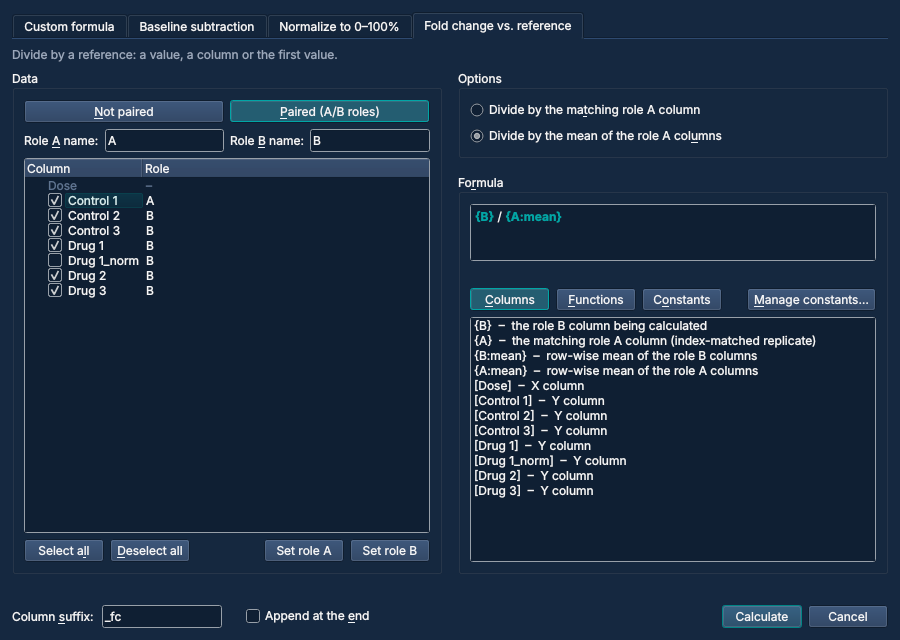
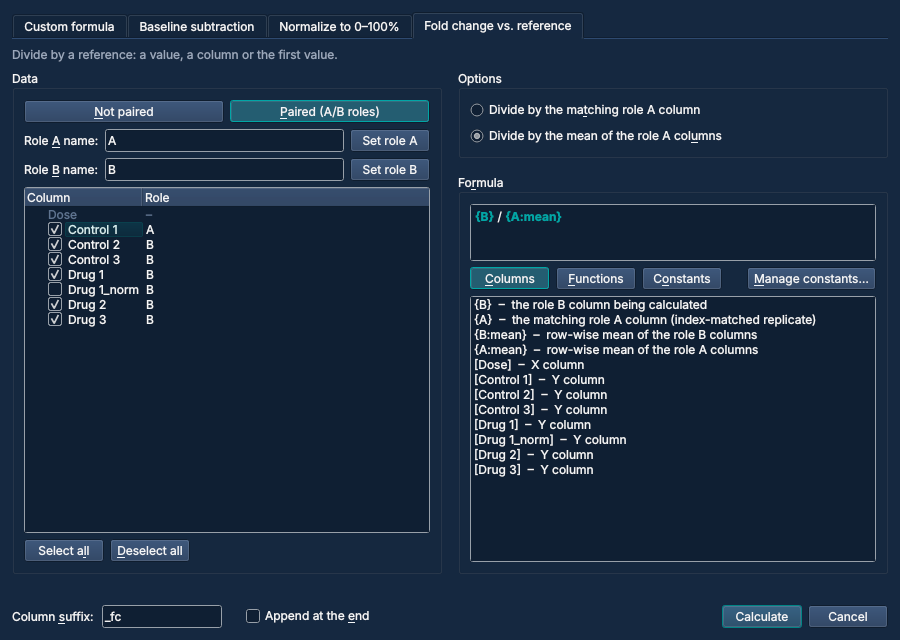
Fit the Calculate dialog in its minimum size on every platform
The paired Calculate dialog needed 825 px with the Ubuntu runner's font,
more than its 820 x 540 minimum, and on macOS the baseline page was 8 px
too tall.

- Data: Set role A / Set role B sit next to their role's name instead of
  in one row with Select all / Deselect all (338 -> ~240 px at 9 pt).
- Formula: the error line is hidden while there is no error, which saves
  a line of height.
- FittedStack reports the size hints of the page shown instead of
  switching pages' size policies. It kept a copy of each page's policy
  from when the page was added, so a label that got its text later lost
  its height-for-width and a wrapped option text (long role names in a
  custom formula) was cut off. A wrapped page now gets its height at the
  stack's width.
- CI: the Windows tests use the native platform. On Windows, offscreen
  finds no fonts and draws every character as a 12 px box, which made
  Calculate need 1244 px and failed Bulk rename too.

Updates the step 1.6 screenshots of Calculate.

Claude-Session: https://claude.ai/code/session_01CFpmBUDZsnLRovBkShW1dJ

diff --git a/src/curvis/ui/calculate_dialog.py b/src/curvis/ui/calculate_dialog.py
@@ -395,12 +395,12 @@ class CalculateDialog(QDialog):
                 self.not_paired,
                 self.paired,
                 self.a_name,
+                self.role_a_button,
                 self.b_name,
+                self.role_b_button,
                 self.tree,
                 self.select_all_button,
                 self.deselect_all_button,
-                self.role_a_button,
-                self.role_b_button,
                 self.options,
                 self.formula_edit,
                 *self.palette_buttons.values(),
@@ -429,15 +429,25 @@ class CalculateDialog(QDialog):
         self.not_paired.setChecked(True)
         layout.addLayout(pairing_row)
 
-        names = QHBoxLayout()
+        # Each role's name, and the button that gives the selected columns that role.
+        names = QGridLayout()
         self.a_name = QLineEdit(DEFAULT_ROLE_A)
         self.b_name = QLineEdit(DEFAULT_ROLE_B)
         self.a_label = QLabel("Role &A name:")
         self.a_label.setBuddy(self.a_name)
         self.b_label = QLabel("Role &B name:")
         self.b_label.setBuddy(self.b_name)
-        for widget in (self.a_label, self.a_name, self.b_label, self.b_name):
-            names.addWidget(widget)
+        self.role_a_button = QPushButton("Set role A")
+        self.role_b_button = QPushButton("Set role B")
+        for row, widgets in enumerate(
+            (
+                (self.a_label, self.a_name, self.role_a_button),
+                (self.b_label, self.b_name, self.role_b_button),
+            )
+        ):
+            for column, widget in enumerate(widgets):
+                names.addWidget(widget, row, column)
+        names.setColumnStretch(1, 1)
         layout.addLayout(names)
 
         self.tree = QTreeWidget()
@@ -453,8 +463,6 @@ class CalculateDialog(QDialog):
         buttons = QHBoxLayout()
         select_all = self.select_all_button = QPushButton("Select a&ll")
         deselect_all = self.deselect_all_button = QPushButton("&Deselect all")
-        self.role_a_button = QPushButton("Set role A")
-        self.role_b_button = QPushButton("Set role B")
         select_all.clicked.connect(lambda: self._check_all(True))
         deselect_all.clicked.connect(lambda: self._check_all(False))
         self.role_a_button.clicked.connect(lambda: self.set_role_of_selected(ROLE_A))
@@ -462,8 +470,6 @@ class CalculateDialog(QDialog):
         for button in (select_all, deselect_all):
             buttons.addWidget(button)
         buttons.addStretch(1)
-        buttons.addWidget(self.role_a_button)
-        buttons.addWidget(self.role_b_button)
         layout.addLayout(buttons)
 
         self.pairing_group.buttonToggled.connect(lambda *_: self._on_pairing_changed())
@@ -547,6 +553,7 @@ class CalculateDialog(QDialog):
         self.highlighter = FormulaHighlighter(self.formula_edit.document(), self.formula_edit)
         layout.addWidget(self.formula_edit)
         self.formula_error = error_label()
+        self.formula_error.hide()  # shown only while there is an error, to save its line
         layout.addWidget(self.formula_error)
 
         tabs = QHBoxLayout()
@@ -895,6 +902,7 @@ class CalculateDialog(QDialog):
             with QSignalBlocker(self.formula_edit):
                 self.highlighter.rehighlight()
         self.formula_error.setText(error.reason + "." if error and text.strip() else "")
+        self.formula_error.setVisible(bool(self.formula_error.text()))
         problem = self.problem()
         under_formula = error is not None and problem == error.reason and bool(text.strip())
         self.skeleton.set_problem(problem, shown_in=self.formula_error if under_formula else None)

diff --git a/src/curvis/ui/dialogs.py b/src/curvis/ui/dialogs.py
@@ -19,7 +19,7 @@ from itertools import pairwise
 
 import shiboken6
 from PySide6.QtCore import QAbstractItemModel, QEvent, QObject, QSize, Qt, Signal
-from PySide6.QtGui import QKeySequence, QPalette, QShortcut
+from PySide6.QtGui import QKeySequence, QPalette, QResizeEvent, QShortcut
 from PySide6.QtWidgets import (
     QAbstractItemView,
     QBoxLayout,
@@ -319,31 +319,46 @@ class CollapsibleSection(QWidget):
 class FittedStack(QStackedWidget):
     """A stacked widget that takes the size of the page shown, not of its tallest page.
 
-    Hidden pages get the Ignored size policy, which the stacked layout leaves out when it
-    works out its size; the page shown gets its own policy back.
+    Its size hints are those of the page shown. A page whose height depends on its width
+    (a word-wrapped label) gets the height it needs at the stack's width. The pages keep
+    their own size policies.
     """
 
     def __init__(self, parent: QWidget | None = None) -> None:
         super().__init__(parent)
-        self._policies: dict[int, QSizePolicy] = {}
         self.setSizePolicy(QSizePolicy.Policy.Preferred, QSizePolicy.Policy.Maximum)
-        self.currentChanged.connect(lambda _index: self.fit())
+        self.currentChanged.connect(lambda _index: self.updateGeometry())
 
-    def addWidget(self, widget: QWidget) -> int:  # noqa: N802 (Qt API)
-        self._policies[id(widget)] = widget.sizePolicy()
-        index = super().addWidget(widget)
-        self.fit()
-        return index
+    def _fit(self, size: QSize) -> QSize:
+        page = self.currentWidget()
+        margins = self.contentsMargins()
+        if page is not None and page.hasHeightForWidth() and self.width() > 0:
+            inner = self.width() - margins.left() - margins.right()
+            size.setHeight(max(size.height(), page.heightForWidth(inner)))
+        return size.grownBy(margins)
 
-    def fit(self) -> None:
-        ignored = QSizePolicy(QSizePolicy.Policy.Ignored, QSizePolicy.Policy.Ignored)
-        for i in range(self.count()):
-            page = self.widget(i)
-            if page is None:
-                continue
-            own = self._policies.get(id(page), page.sizePolicy())
-            page.setSizePolicy(own if i == self.currentIndex() else ignored)
-        self.updateGeometry()
+    def sizeHint(self) -> QSize:  # noqa: N802 (Qt API)
+        page = self.currentWidget()
+        if page is None:
+            return super().sizeHint()
+        return self._fit(page.sizeHint().expandedTo(page.minimumSize()))
+
+    def minimumSizeHint(self) -> QSize:  # noqa: N802 (Qt API)
+        page = self.currentWidget()
+        if page is None:
+            return super().minimumSizeHint()
+        return self._fit(page.minimumSizeHint().expandedTo(page.minimumSize()))
+
+    def event(self, event: QEvent) -> bool:
+        if event.type() == QEvent.Type.LayoutRequest:
+            self.updateGeometry()  # the page shown changed size: so does the stack
+        return super().event(event)
+
+    def resizeEvent(self, event: QResizeEvent) -> None:  # noqa: N802 (Qt API)
+        super().resizeEvent(event)
+        page = self.currentWidget()
+        if event.oldSize().width() != event.size().width() and page and page.hasHeightForWidth():
+            self.updateGeometry()  # a wrapped page needs another height at this width
 
 
 class EmptyState(QObject):

diff --git a/tests/ui/test_dialog_design.py b/tests/ui/test_dialog_design.py
@@ -31,13 +31,21 @@ from PySide6.QtWidgets import (
     QPlainTextEdit,
     QPushButton,
     QTabBar,
+    QVBoxLayout,
     QWidget,
 )
 from pytestqt.qtbot import QtBot
 
 from curvis.compute import Scheduler
+from curvis.core import CalculationKind
 from curvis.settings import Settings
-from curvis.ui.dialogs import WORKBENCH_MINIMUM, WORKBENCH_SIZE, DialogSkeleton
+from curvis.ui.dialogs import (
+    WORKBENCH_MINIMUM,
+    WORKBENCH_SIZE,
+    DialogSkeleton,
+    FittedStack,
+    secondary_label,
+)
 from curvis.ui.theme import dark_palette, light_palette
 from tests.ui.dialog_samples import SAMPLES, Context, settle
 
@@ -305,3 +313,52 @@ def test_the_checks_find_overlaps_cut_offs_and_clashes(qtbot: QtBot) -> None:
     assert any("cut off" in p for p in problems)
     letters = [mnemonic(text) for text, _ in mnemonic_texts(dialog)]  # type: ignore[arg-type]
     assert letters.count("s") == 2
+
+
+@pytest.mark.parametrize("size", ["default", "minimum"])
+def test_calculate_fits_a_wrapped_option_text(
+    size: str, qtbot: QtBot, context: Context, qapp: QApplication
+) -> None:
+    """Long role names make the custom formula's text wrap; the dialog makes room for it."""
+    dialog = open_sample("calculate_paired", qtbot, context, qapp)
+    dialog.set_kind(CalculationKind.CUSTOM)  # type: ignore[attr-defined]
+    dialog.a_name.setText("Vehicle control, day one")  # type: ignore[attr-defined]
+    dialog.b_name.setText("Treated with the drug, day one")  # type: ignore[attr-defined]
+    settle(dialog, context, qapp)
+    if size == "minimum":
+        resize(dialog, dialog.minimumSize().expandedTo(dialog.minimumSizeHint()), qapp)
+    problems = problems_with_fit(dialog)
+    assert not problems, "\n".join(problems)
+
+
+def test_a_fitted_stack_is_as_tall_as_the_page_shown(qtbot: QtBot) -> None:
+    stack = FittedStack()
+    short, tall = QWidget(), QWidget()
+    short.setMinimumHeight(20)
+    tall.setMinimumHeight(200)
+    stack.addWidget(short)
+    stack.addWidget(tall)
+    qtbot.addWidget(stack)
+    assert stack.minimumSizeHint().height() == 20
+    stack.setCurrentIndex(1)
+    assert stack.minimumSizeHint().height() == 200
+
+
+def test_a_fitted_stack_wraps_a_label_that_gets_its_text_later(qtbot: QtBot) -> None:
+    window = QWidget()
+    qtbot.addWidget(window)
+    layout = QVBoxLayout(window)
+    stack = FittedStack()
+    label = secondary_label()  # no text yet, as in Calculate's custom formula page
+    stack.addWidget(label)
+    stack.addWidget(QWidget())
+    layout.addWidget(stack)
+    layout.addStretch(1)
+    stack.setCurrentIndex(1)
+    label.setText("A sentence long enough to need several lines in a narrow window. " * 3)
+    stack.setCurrentIndex(0)
+    window.resize(200, 400)
+    window.show()
+    qtbot.waitExposed(window)
+    assert label.heightForWidth(label.width()) > 2 * label.fontMetrics().height()
+    qtbot.waitUntil(lambda: label.height() >= label.heightForWidth(label.width()), timeout=1000)
